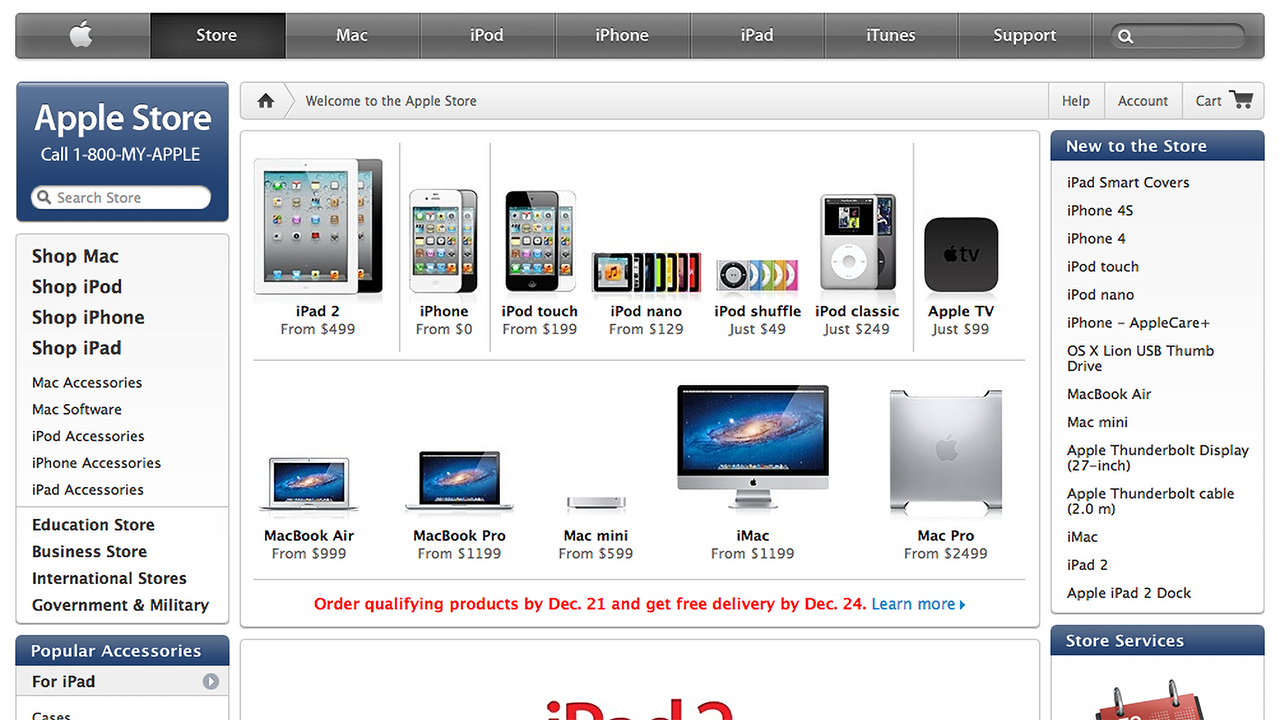
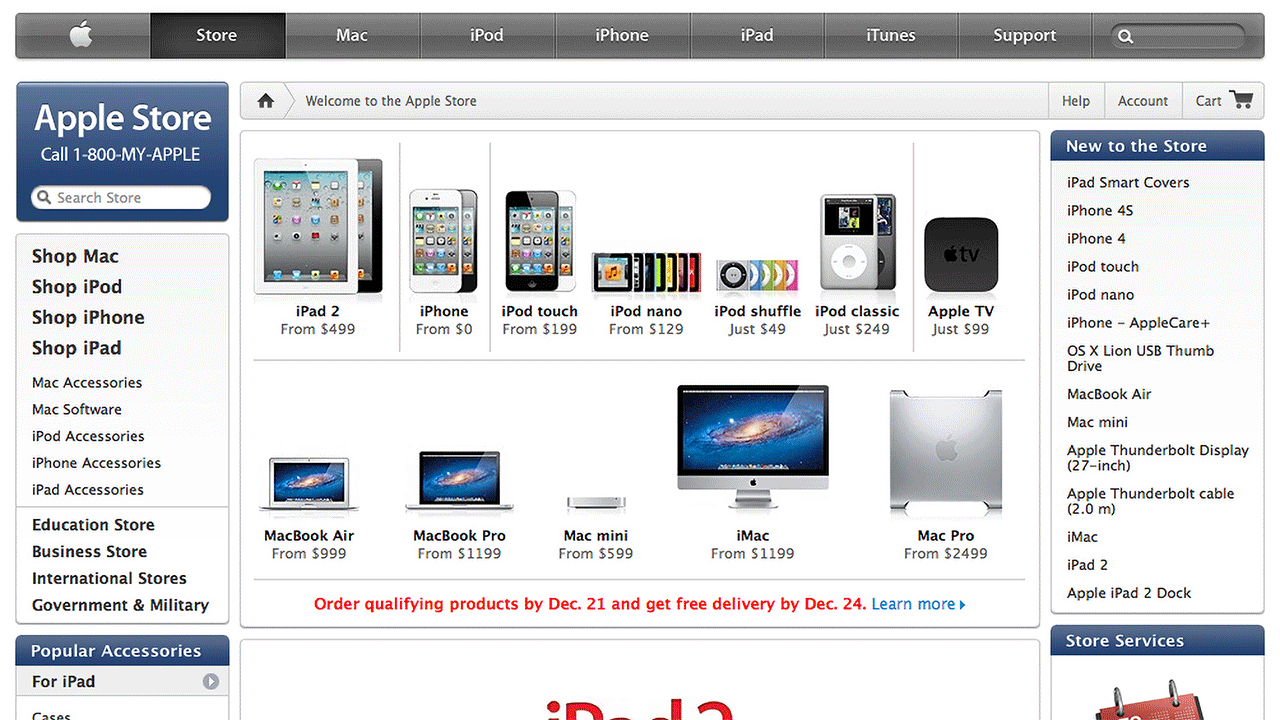
smaller images

diff --git a/website/src/pages/index.jsx b/website/src/pages/index.jsx
@@ -16,6 +16,8 @@ import styles from './index.module.scss';
 import flushStyles from '../layout/Flush/Flush.module.scss';
 import spacingStyles from '../layout/Spacing/Spacing.module.scss';
 
+import PortraitDrawing from '../assets/images/portrait-drawing.gif';
+
 import AboutData from '../../content/about.yml';
 import WorkData from '../../content/work.yml';
 
@@ -24,16 +26,16 @@ const IndexPage = () => {
     <DefaultLayout
       pageTitle="Design Systems, Communities, &amp;&nbsp;Experiences"
       pageDescription="Looking for a community-minded senior design lead who likes to&nbsp;code? Let&rsquo;s&nbsp;talk!"
-      heroSidebarBefore={
+      heroSidebarBefore={(
         <div className={`${flushStyles.x_xl} ${flushStyles.y_lg}`}>
           <Container mw="xs">
             <Circle lg_is_not>
-              <Image.PortraitDrawing />
+              <img src={PortraitDrawing} alt="Self-portrait drawing" />
             </Circle>
           </Container>
         </div>
-      }
-      sidebarAfter={
+      )}
+      sidebarAfter={(
         <Card heading="Connect">
           <Card.List>
             {AboutData.connect.map((data, index) => {
@@ -47,7 +49,7 @@ const IndexPage = () => {
             })}
           </Card.List>
         </Card>
-      }
+      )}
       sidebarAfterOrder="first"
     >
       <ul className={`${flushStyles.x_xl} ${flushStyles.y_xxl}`}>

diff --git a/website/src/components/Image/Image.jsx b/website/src/components/Image/Image.jsx
@@ -18,7 +18,6 @@ import {
   ClaritySVAMarquee,
   ClarityTatianaAndBrad,
   ClarityWebsite,
-  PortraitDrawing,
   Salesforce1StyleGuide,
   SalesforceLightningDesignSystem,
   SalesforceLightningDesignSystemIllustration,
@@ -34,9 +33,9 @@ import {
 const Image = ({ props }) => {
   const data = useStaticQuery(graphql`
     query {
-      placeholderImage: file(relativePath: { eq: "portrait.png" }) {
+      placeholderImage: file(relativePath: { eq: "portrait.jpg" }) {
         childImageSharp {
-          fluid(maxWidth: 256) {
+          fluid(maxWidth: 640) {
             ...GatsbyImageSharpFluid
           }
         }
@@ -74,7 +73,6 @@ Image.ClarityRichardAndBarbara = ClarityRichardAndBarbara;
 Image.ClaritySVAMarquee = ClaritySVAMarquee;
 Image.ClarityTatianaAndBrad = ClarityTatianaAndBrad;
 Image.ClarityWebsite = ClarityWebsite;
-Image.PortraitDrawing = PortraitDrawing;
 Image.Salesforce1StyleGuide = Salesforce1StyleGuide;
 Image.SalesforceLightningDesignSystem = SalesforceLightningDesignSystem;
 Image.SalesforceLightningDesignSystemIllustration = SalesforceLightningDesignSystemIllustration;

diff --git a/website/src/components/Image/components/SalesforceLightningDesignSystem/SalesforceLightningDesignSystem.jsx b/website/src/components/Image/components/SalesforceLightningDesignSystem/SalesforceLightningDesignSystem.jsx
@@ -1,31 +1,8 @@
 import React from 'react';
-import { useStaticQuery, graphql } from 'gatsby';
-import Img from 'gatsby-image';
+import Logo from '../../../../assets/images/salesforce-logo.gif';
 
-const SalesforceLightningDesignSystem = ({ props }) => {
-  const data = useStaticQuery(graphql`
-    query {
-      placeholderImage: file(relativePath: { eq: "salesforce-logo.png" }) {
-        childImageSharp {
-          fluid(maxWidth: 1280) {
-            ...GatsbyImageSharpFluid
-          }
-        }
-      }
-    }
-  `);
-
-  return (
-    <Img
-      {...props}
-      fluid={data.placeholderImage.childImageSharp.fluid}
-      alt="Salesforce Lightning Design System logo"
-    />
-  );
-};
-
-SalesforceLightningDesignSystem.propTypes = {
-  ...Img.propTypes,
+const SalesforceLightningDesignSystem = () => {
+  return <img src={Logo} width="160" height="160" alt="Salesforcee logo" />;
 };
 
 export { SalesforceLightningDesignSystem };

diff --git a/website/src/components/Image/components/BeehiveDesignSystem/BeehiveDesignSystem.jsx b/website/src/components/Image/components/BeehiveDesignSystem/BeehiveDesignSystem.jsx
@@ -1,33 +1,10 @@
 import React from 'react';
-import { useStaticQuery, graphql } from 'gatsby';
-import Img from 'gatsby-image';
+import Logo from '../../../../assets/images/amazon-honeycode-logo.gif';
 
-const BeehiveDesignSystem = ({ props }) => {
-  const data = useStaticQuery(graphql`
-    query {
-      placeholderImage: file(
-        relativePath: { eq: "amazon-honeycode-logo.png" }
-      ) {
-        childImageSharp {
-          fluid(maxWidth: 1280) {
-            ...GatsbyImageSharpFluid
-          }
-        }
-      }
-    }
-  `);
-
+const BeehiveDesignSystem = () => {
   return (
-    <Img
-      {...props}
-      fluid={data.placeholderImage.childImageSharp.fluid}
-      alt="Amazon Honeycode logo"
-    />
+    <img src={Logo} width="160" height="160" alt="Amazon Honeycode logo" />
   );
-};
-
-BeehiveDesignSystem.propTypes = {
-  ...Img.propTypes,
 };
 
 export { BeehiveDesignSystem };

diff --git a/website/src/components/Image/components/AppleOnlineStore/AppleOnlineStore.jsx b/website/src/components/Image/components/AppleOnlineStore/AppleOnlineStore.jsx
@@ -1,33 +1,8 @@
 import React from 'react';
-import { useStaticQuery, graphql } from 'gatsby';
-import Img from 'gatsby-image';
+import Logo from '../../../../assets/images/apple-logo.gif';
 
-const AppleOnlineStore = ({ props }) => {
-  const data = useStaticQuery(graphql`
-    query {
-      placeholderImage: file(
-        relativePath: { eq: "apple-online-store-logo.png" }
-      ) {
-        childImageSharp {
-          fluid(maxWidth: 1280) {
-            ...GatsbyImageSharpFluid
-          }
-        }
-      }
-    }
-  `);
-
-  return (
-    <Img
-      {...props}
-      fluid={data.placeholderImage.childImageSharp.fluid}
-      alt="Apple logo"
-    />
-  );
-};
-
-AppleOnlineStore.propTypes = {
-  ...Img.propTypes,
+const AppleOnlineStore = () => {
+  return <img src={Logo} width="160" height="160" alt="Apple logo" />;
 };
 
 export { AppleOnlineStore };

diff --git a/website/src/components/Image/components/Clarity/Clarity.jsx b/website/src/components/Image/components/Clarity/Clarity.jsx
@@ -1,31 +1,8 @@
 import React from 'react';
-import { useStaticQuery, graphql } from 'gatsby';
-import Img from 'gatsby-image';
+import Logo from '../../../../assets/images/clarity-logo.gif';
 
-const Clarity = ({ props }) => {
-  const data = useStaticQuery(graphql`
-    query {
-      placeholderImage: file(relativePath: { eq: "clarity-logo.png" }) {
-        childImageSharp {
-          fluid(maxWidth: 1280) {
-            ...GatsbyImageSharpFluid
-          }
-        }
-      }
-    }
-  `);
-
-  return (
-    <Img
-      {...props}
-      fluid={data.placeholderImage.childImageSharp.fluid}
-      alt="Clarity logo"
-    />
-  );
-};
-
-Clarity.propTypes = {
-  ...Img.propTypes,
+const Clarity = () => {
+  return <img src={Logo} width="160" height="160" alt="Clarity logo" />;
 };
 
 export { Clarity };

diff --git a/website/src/components/Image/components/Sass/Sass.jsx b/website/src/components/Image/components/Sass/Sass.jsx
@@ -1,31 +1,8 @@
 import React from 'react';
-import { useStaticQuery, graphql } from 'gatsby';
-import Img from 'gatsby-image';
+import Logo from '../../../../assets/images/sass-logo.gif';
 
-const Sass = ({ props }) => {
-  const data = useStaticQuery(graphql`
-    query {
-      placeholderImage: file(relativePath: { eq: "sass-logo.png" }) {
-        childImageSharp {
-          fluid(maxWidth: 1280) {
-            ...GatsbyImageSharpFluid
-          }
-        }
-      }
-    }
-  `);
-
-  return (
-    <Img
-      {...props}
-      fluid={data.placeholderImage.childImageSharp.fluid}
-      alt="Sass logo"
-    />
-  );
-};
-
-Sass.propTypes = {
-  ...Img.propTypes,
+const Sass = () => {
+  return <img src={Logo} width="160" height="160" alt="Sass logo" />;
 };
 
 export { Sass };

diff --git a/website/src/components/Image/components/Clarity/SVAMarquee.jsx b/website/src/components/Image/components/Clarity/SVAMarquee.jsx
@@ -5,9 +5,9 @@ import Img from 'gatsby-image';
 const ClaritySVAMarquee = ({ props }) => {
   const data = useStaticQuery(graphql`
     query {
-      placeholderImage: file(relativePath: { eq: "clarity-sva-marquee.png" }) {
+      placeholderImage: file(relativePath: { eq: "clarity-sva-marquee.jpg" }) {
         childImageSharp {
-          fluid(maxWidth: 1280) {
+          fluid(maxWidth: 960) {
             ...GatsbyImageSharpFluid
           }
         }

diff --git a/website/src/components/Image/components/Clarity/Programs.jsx b/website/src/components/Image/components/Clarity/Programs.jsx
@@ -5,9 +5,9 @@ import Img from 'gatsby-image';
 const ClarityPrograms = ({ props }) => {
   const data = useStaticQuery(graphql`
     query {
-      placeholderImage: file(relativePath: { eq: "clarity-programs.png" }) {
+      placeholderImage: file(relativePath: { eq: "clarity-programs.jpg" }) {
         childImageSharp {
-          fluid(maxWidth: 1280) {
+          fluid(maxWidth: 960) {
             ...GatsbyImageSharpFluid
           }
         }

diff --git a/website/src/components/Image/components/Clarity/RichardAndBarbara.jsx b/website/src/components/Image/components/Clarity/RichardAndBarbara.jsx
@@ -6,10 +6,10 @@ const ClarityRichardAndBarbara = ({ props }) => {
   const data = useStaticQuery(graphql`
     query {
       placeholderImage: file(
-        relativePath: { eq: "clarity-richard-and-barbara.png" }
+        relativePath: { eq: "clarity-richard-and-barbara.jpg" }
       ) {
         childImageSharp {
-          fluid(maxWidth: 1280) {
+          fluid(maxWidth: 960) {
             ...GatsbyImageSharpFluid
           }
         }

diff --git a/website/src/components/Image/components/Clarity/Henri.jsx b/website/src/components/Image/components/Clarity/Henri.jsx
@@ -5,9 +5,9 @@ import Img from 'gatsby-image';
 const ClarityHenri = ({ props }) => {
   const data = useStaticQuery(graphql`
     query {
-      placeholderImage: file(relativePath: { eq: "clarity-henri.png" }) {
+      placeholderImage: file(relativePath: { eq: "clarity-henri.jpg" }) {
         childImageSharp {
-          fluid(maxWidth: 1280) {
+          fluid(maxWidth: 960) {
             ...GatsbyImageSharpFluid
           }
         }

diff --git a/website/src/components/Image/components/Clarity/Box.jsx b/website/src/components/Image/components/Clarity/Box.jsx
@@ -5,9 +5,9 @@ import Img from 'gatsby-image';
 const ClarityBox = ({ props }) => {
   const data = useStaticQuery(graphql`
     query {
-      placeholderImage: file(relativePath: { eq: "clarity-box.png" }) {
+      placeholderImage: file(relativePath: { eq: "clarity-box.jpg" }) {
         childImageSharp {
-          fluid(maxWidth: 1280) {
+          fluid(maxWidth: 960) {
             ...GatsbyImageSharpFluid
           }
         }
